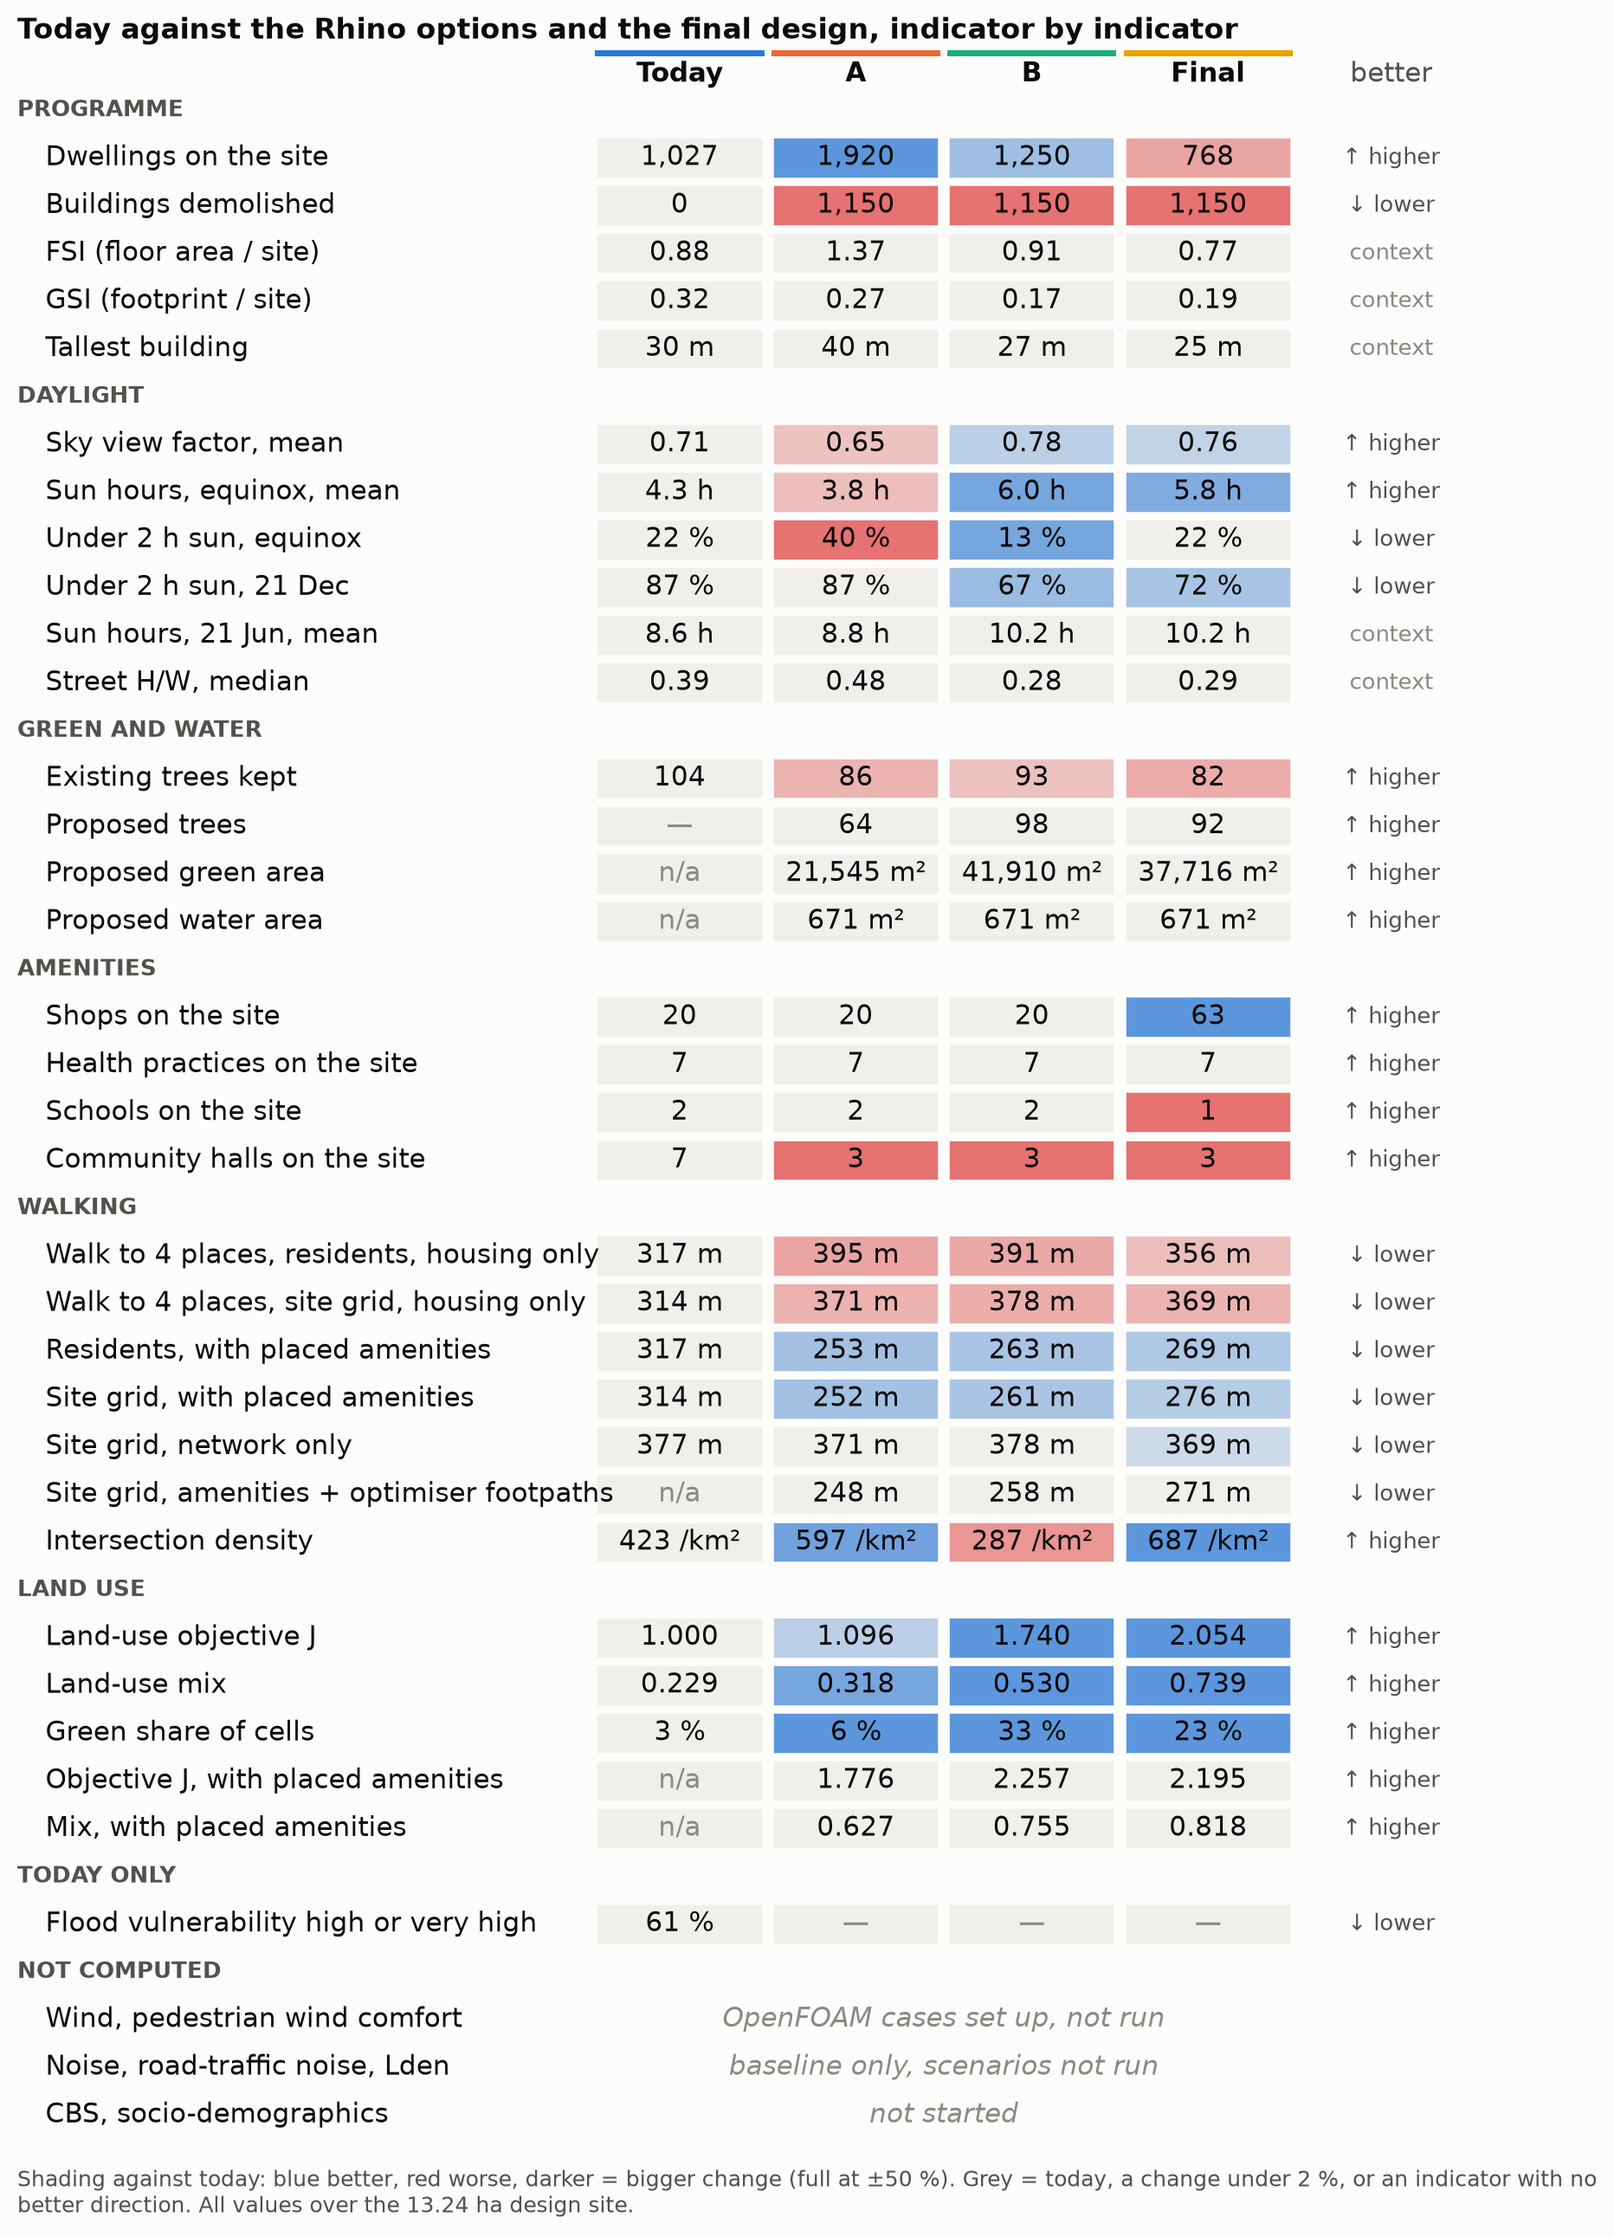
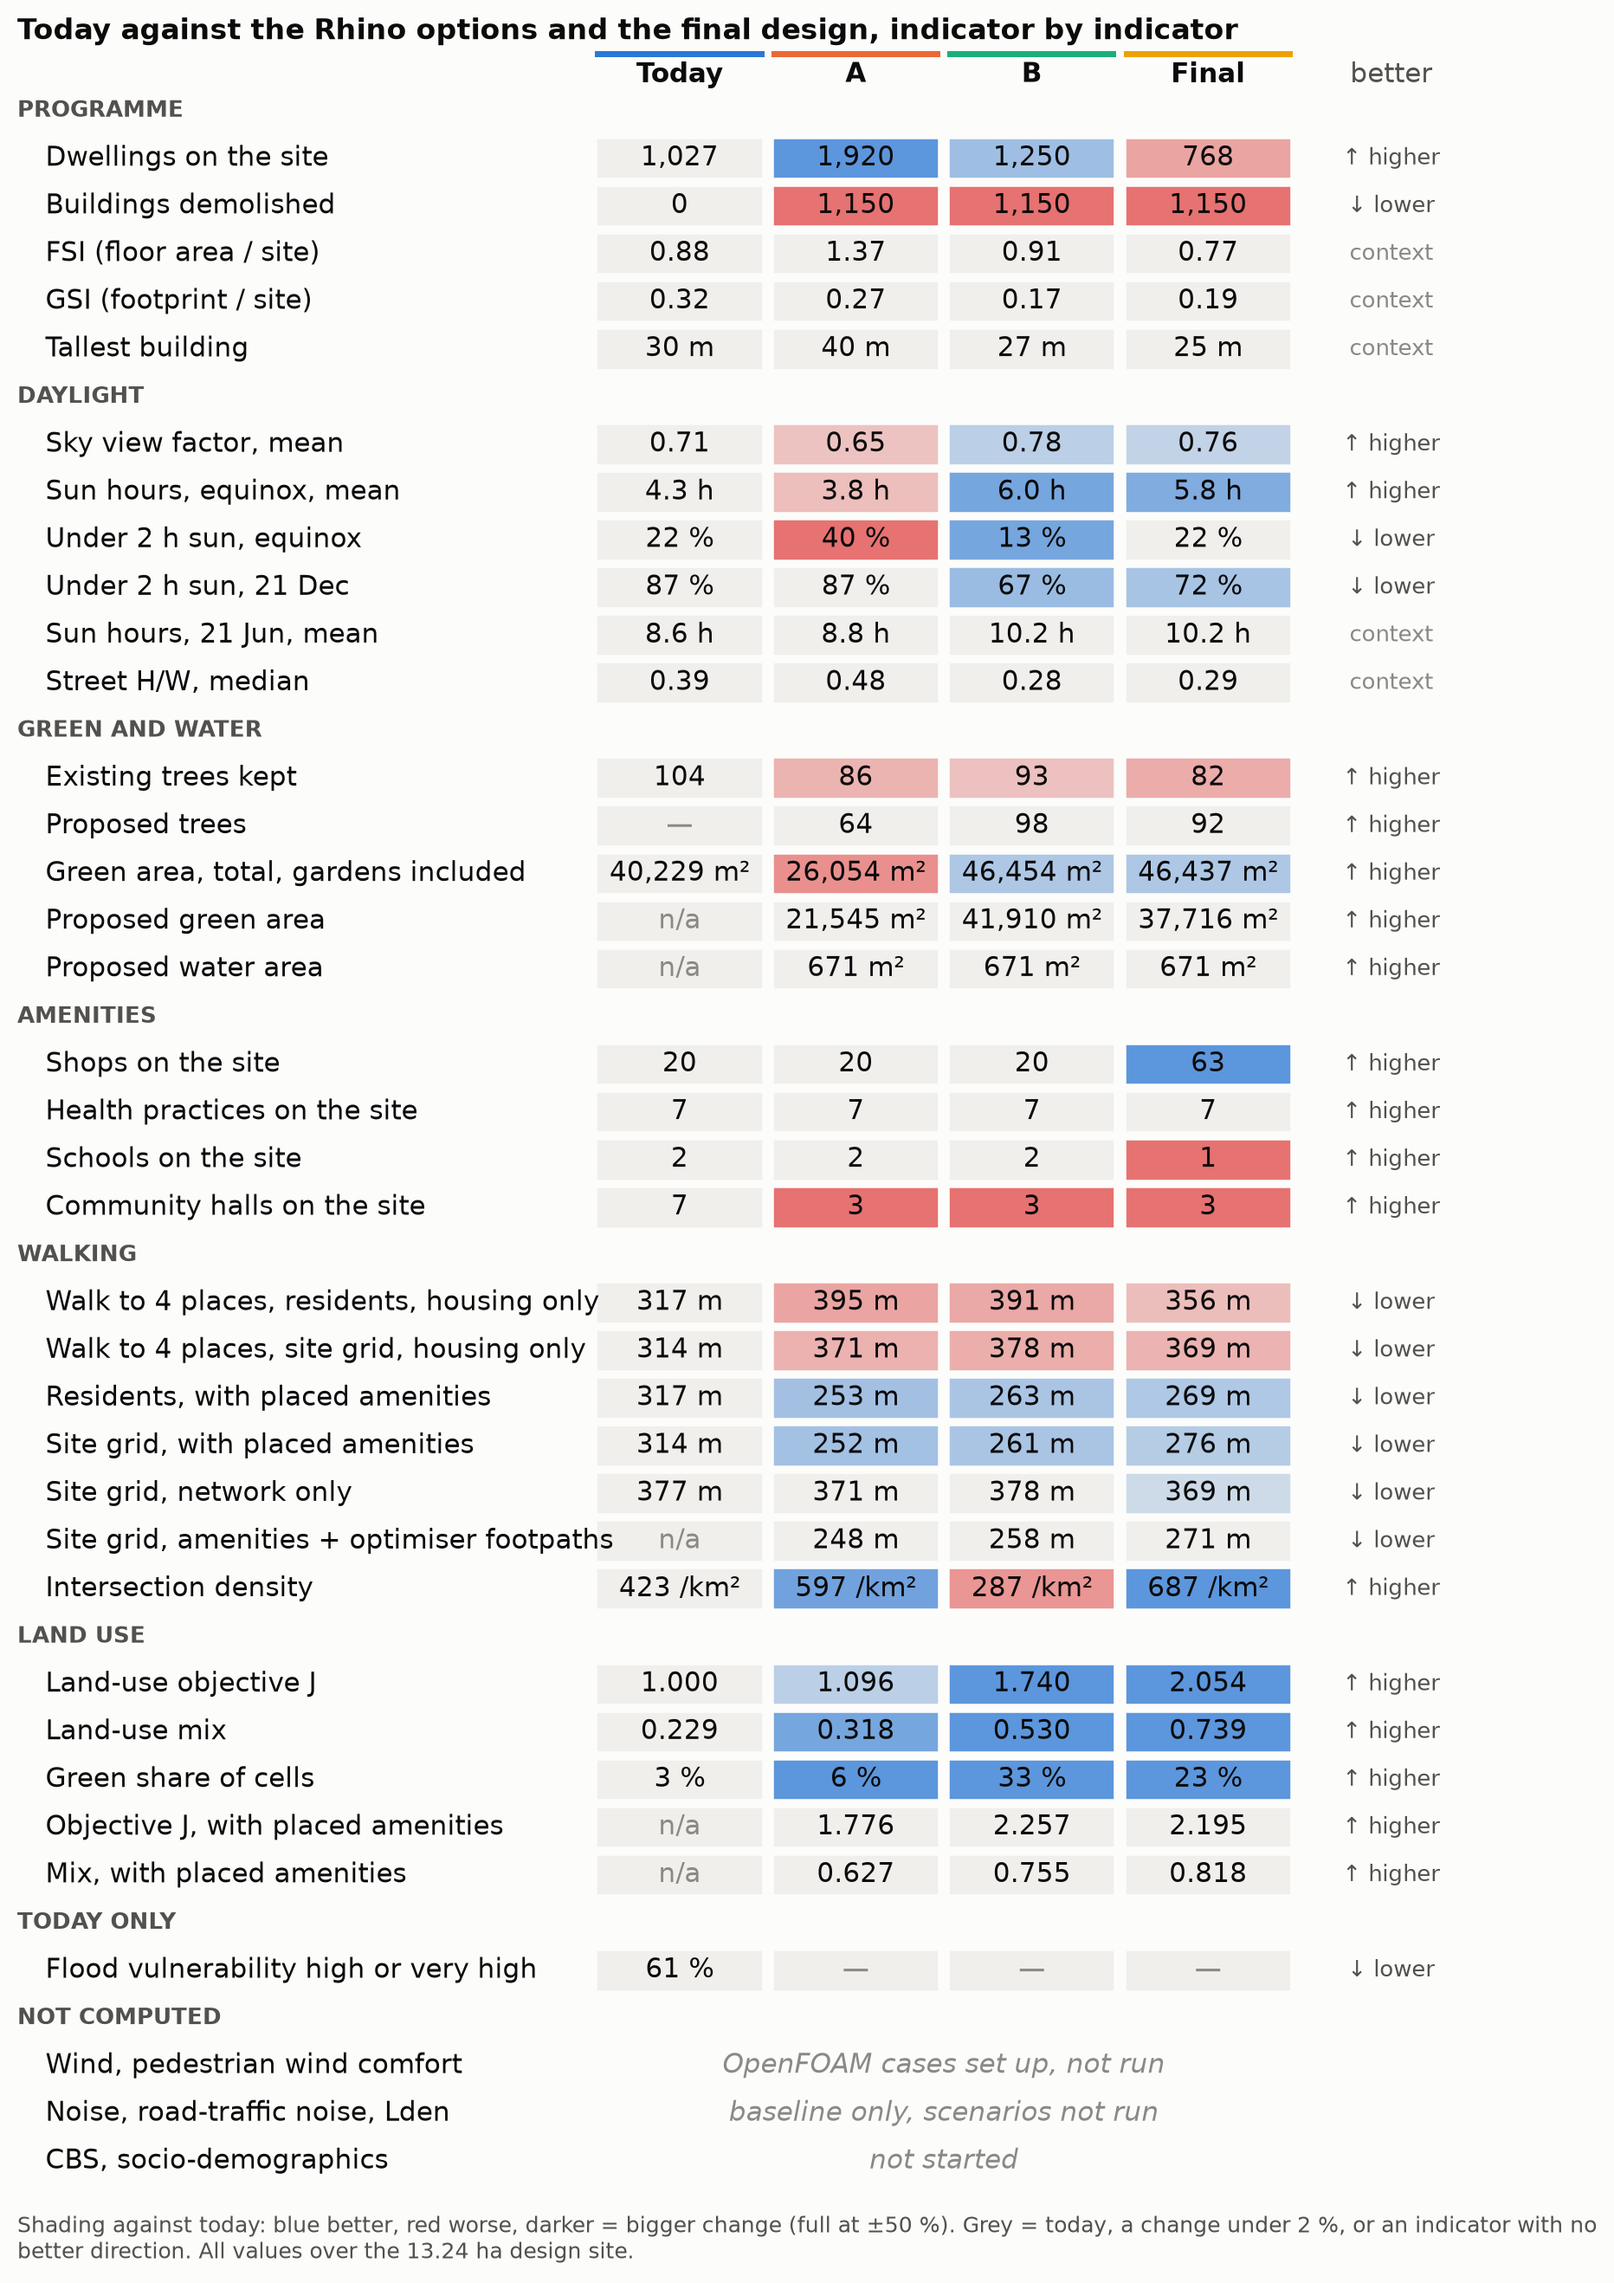
Green area per scenario in the comparison: today from the BGT (planted surfaces and gardens), designs from kept, proposed and walkway green

diff --git a/app/modules/comparison.js b/app/modules/comparison.js
@@ -22,6 +22,7 @@ const ROWS = [  //key, label, digits, as a percentage
   ["sun_under2h_1221", "Under 2 h sun, 21 Dec", 0, true],
   ["hw_median", "Street H/W, median", 2, false],
   ["trees_existing", "Existing trees kept", 0, false],  //today's trees still standing on the site
+  ["green_total_m2", "Green area, gardens incl. (m²)", 0, false],  //BGT today, kept + proposed green (+ walkway) in a design
   ["trees_proposed", "Proposed trees", 0, false],  //new planting from the Rhino model
   ["n_shop", "Shops on the site", 0, false],  //today from BAG; options placed (p-median) + kept
   ["n_education", "Schools on the site", 0, false],  //the kept school stays fixed

diff --git a/analysis/comparison/compare_scenarios.py b/analysis/comparison/compare_scenarios.py
@@ -154,12 +154,48 @@ def green(sc):
     area = lambda kind: round(sum(rd(shape(p["geometry"])).intersection(site).area
                                   for p in plant if p["properties"]["kind"] == kind))
     new_trees = sum(1 for p in plant if p["properties"]["kind"] == "tree")
-    out = {"trees_existing": kept, "trees_total": kept + new_trees}
+    out = {"trees_existing": kept, "trees_total": kept + new_trees, "green_total_m2": green_total(sc)}
     if sc != "baseline":  #proposed planting only exists in the designs, today's gardens are not in this count
         out.update({"trees_proposed": new_trees,  #n/a today, like the green and water areas
                     "shrubs_proposed": sum(1 for p in plant if p["properties"]["kind"] == "shrub"),
                     "green_area_m2": area("green"), "water_area_m2": area("water")})
     return out
+
+
+def green_total(sc):
+    #all green on the site, public and gardens in one number (Atanas, 2026-10-28), overlaps counted once:
+    #today the BGT's planted surfaces plus its erf (gardens, fetch_bgt_green.py); a design keeps today's green
+    #in the block it keeps and the public verges in the edge-street band, less what it builds or paves there,
+    #and adds its own green patches (the final design's house gardens among them) and its walkway
+    import geopandas as gpd
+    from shapely.geometry import shape
+    from shapely.ops import transform, unary_union
+    from scenario_world import EDGE_BAND_M, cleared_area
+    path = RAW / "bgt_green_site.geojson"
+    if not path.exists():
+        print("  ! data/raw/bgt_green_site.geojson missing: run analysis/comparison/fetch_bgt_green.py")
+        return None
+    site = design_site_polygon()
+    bgt = gpd.read_file(path)
+    if sc == "baseline":
+        return round(unary_union(bgt.geometry.values).intersection(site).area)
+    rd = lambda g: transform(lambda x, y, z=None: to_rd(x, y), g)  #lon/lat -> RD
+    keep = site.difference(cleared_area(sc))  #the block the design leaves standing
+    band = site.difference(site.buffer(-EDGE_BAND_M)).intersection(cleared_area(sc))  #edge streets and their verges
+    kept = unary_union([unary_union(bgt.geometry.values).intersection(keep),
+                        unary_union(bgt[bgt["kind"] == "green"].geometry.values).intersection(band)])  #no demolished house's garden
+    built = [rd(shape(f["geometry"])) for f in (J("design_massing.geojson") or {}).get("features", [])
+             if f["properties"]["scenario"] == sc]
+    paved = [rd(shape(f["geometry"])) for f in (J("design_streets.geojson") or {}).get("features", [])
+             if f["properties"]["scenario"] == sc and f["geometry"]["type"] in ("Polygon", "MultiPolygon")
+             and f["properties"]["kind"] != "walkway"]
+    plant = [p for p in (J("design_planting.geojson") or {}).get("features", []) if p["properties"]["scenario"] == sc]
+    water = [rd(shape(p["geometry"])) for p in plant if p["properties"]["kind"] == "water"]
+    kept = kept.difference(unary_union([g.buffer(0) for g in built + paved + water]))  #what the design puts on it
+    new = [rd(shape(p["geometry"])) for p in plant if p["properties"]["kind"] == "green"]
+    walk = [rd(shape(f["geometry"])) for f in (J("design_streets.geojson") or {}).get("features", [])
+            if f["properties"]["scenario"] == sc and f["properties"]["kind"] == "walkway"]  #the final design's path, counted green
+    return round(unary_union([kept] + [g.buffer(0) for g in new + walk]).intersection(site).area)
 
 
 def mobility(sc):
@@ -253,6 +289,7 @@ INDICATORS = [
     ("hw_median", "Daylight", "Street H/W, median", "", None, 2, "canyon_hw_*.json"),
     ("trees_existing", "Green and water", "Existing trees kept", "", "higher", 0, "trees*.geojson"),  #today's trees still standing
     ("trees_proposed", "Green and water", "Proposed trees", "", "higher", 0, "design_planting.geojson"),  #new planting, not seen by SVF or sun
+    ("green_total_m2", "Green and water", "Green area, total, gardens included", " m²", "higher", 0, "BGT + design_planting.geojson"),
     ("green_area_m2", "Green and water", "Proposed green area", " m²", "higher", 0, "design_planting.geojson"),
     ("water_area_m2", "Green and water", "Proposed water area", " m²", "higher", 0, "design_planting.geojson"),
     ("n_shop", "Amenities", "Shops on the site", "", "higher", 0, "amenity_placement.json"),

diff --git a/analysis/comparison/fetch_bgt_green.py b/analysis/comparison/fetch_bgt_green.py
@@ -1,0 +1,97 @@
+#!/usr/bin/env python3
+"""
+fetch_bgt_green.py — today's green on the design site, from the BGT.
+
+Component 4.9. Built 2026-10-28 for the green-area row of the scenario
+comparison (compare_scenarios.py).
+
+USAGE
+-----
+    python analysis/comparison/fetch_bgt_green.py
+
+WHAT IT FETCHES
+---------------
+The BGT (Basisregistratie Grootschalige Topografie) through PDOK's OGC API,
+over the design site's box plus 20 m:
+  begroeidterreindeel    every planted surface: public green, shrubs, grass
+  onbegroeidterreindeel  only class "erf": the private plot round a house, how
+                         the BGT records gardens
+Only current versions are kept: the API also returns retired versions (a
+feature with an eind_registratie), 471 of 782 planted parts on the first page
+on 2026-10-28.
+
+OUTPUT
+------
+    data/raw/bgt_green_site.geojson   polygons, EPSG:28992, with class and kind
+                                      ("green" or "garden")
+
+WHAT IT CANNOT TELL YOU
+-----------------------
+* An erf is the whole plot, paving and sheds included, so gardens count in
+  full. The final design's gardens are drawn the same way (a 5 x 18 m plot per
+  house), so the two are counted alike, but both overstate the planted area.
+"""
+from __future__ import annotations
+
+import json
+import pathlib
+import sys
+import urllib.request
+
+sys.path.insert(0, str(pathlib.Path(__file__).resolve().parents[1]))
+from common.project import RAW, SERVICES, design_site_polygon, to_wgs  # noqa: E402
+
+PARAMS = {
+    "pad_m": 20.0,  #box round the site, so a polygon crossing its outline comes whole
+    "page": 1000,  #features per request, the API's maximum
+}
+CASES = [  #one dict per BGT collection: which classes count, and as what
+    {"collection": "begroeidterreindeel", "classes": None, "kind": "green"},  #every planted class
+    {"collection": "onbegroeidterreindeel", "classes": ["erf"], "kind": "garden"},  #private plots only, not paving or sand
+]
+
+
+def fetch(c, p):
+    #every current feature of one collection in the site box -> list of GeoJSON features (lon/lat)
+    x0, y0, x1, y1 = design_site_polygon().buffer(p["pad_m"]).bounds
+    (w, s), (e, n) = to_wgs(x0, y0), to_wgs(x1, y1)
+    url = (f"{SERVICES['bgt_ogc']}/collections/{c['collection']}/items?f=json&limit={p['page']}"
+           f"&bbox={w},{s},{e},{n}")
+    out, pages = [], 0
+    while url:  #follow the next links: the erf collection alone runs past one page
+        d = json.load(urllib.request.urlopen(url, timeout=120))
+        out += d["features"]
+        pages += 1
+        url = next((l["href"] for l in d.get("links", []) if l["rel"] == "next"), None)
+    current = [f for f in out if not f["properties"].get("eind_registratie")]  #retired versions out
+    keep = [f for f in current if c["classes"] is None or f["properties"].get("fysiek_voorkomen") in c["classes"]]
+    print(f"  {c['collection']}: {len(out)} features in {pages} page(s), {len(current)} current, {len(keep)} kept")
+    return keep
+
+
+def main() -> int:
+    import geopandas as gpd
+    from collections import Counter
+    p = PARAMS
+    print("BGT green over the design site")
+    rows = []
+    for c in CASES:  #one collection per case
+        for f in fetch(c, p):
+            rows.append({"kind": c["kind"], "class": f["properties"].get("fysiek_voorkomen"),
+                         "lokaal_id": f["properties"].get("lokaal_id"), "geometry": f["geometry"]})
+    g = gpd.GeoDataFrame.from_features([{"type": "Feature", "geometry": r.pop("geometry"), "properties": r}
+                                        for r in rows], crs=4326).to_crs(28992)
+    g = g[g.geometry.geom_type.isin(["Polygon", "MultiPolygon"])]  #surfaces only
+    site = design_site_polygon()
+    on = g[g.intersects(site)]
+    print("  on the site: " + ", ".join(f"{k} {n}" for k, n in Counter(on["class"]).most_common()))
+    print(f"  area on the site: green {on[on.kind == 'green'].intersection(site).area.sum():,.0f} m2, "
+          f"gardens {on[on.kind == 'garden'].intersection(site).area.sum():,.0f} m2")
+    path = RAW / "bgt_green_site.geojson"
+    g.to_file(path, driver="GeoJSON")
+    print(f"  wrote {path.relative_to(RAW.parent.parent)} ({len(g)} polygons)")
+    return 0
+
+
+if __name__ == "__main__":
+    raise SystemExit(main())

diff --git a/analysis/common/project.py b/analysis/common/project.py
@@ -323,6 +323,7 @@ SERVICES = {
     "knmi_open_data": "https://api.dataplatform.knmi.nl/open-data/v1",
     "knmi_daily":     "https://www.daggegevens.knmi.nl/klimatologie/daggegevens",
     "pdok_locatie":   "https://api.pdok.nl/bzk/locatieserver/search/v3_1",
+    "bgt_ogc":        "https://api.pdok.nl/lv/bgt/ogc/v1",  # BGT land cover; verified reachable 2026-10-28
 }
 
 # The public anonymous KNMI key (valid to 2027-08-01 per KNMI's docs).

diff --git a/analysis/comparison/README.md b/analysis/comparison/README.md
@@ -71,6 +71,7 @@ a row that says so. Flood vulnerability is today only.
 | street H/W, median | 0.39 | 0.48 | 0.28 | 0.29 | context |
 | existing trees kept on the site | 104 | 86 | 93 | 82 | higher |
 | proposed trees | n/a | 64 | 98 | 92 | higher |
+| green area, total, gardens included | 40,229 m² | 26,054 m² | 46,454 m² | 46,437 m² | higher |
 | proposed green area | n/a | 21,545 m² | 41,910 m² | 37,716 m² | higher |
 | proposed water area | n/a | 671 m² | 671 m² | 671 m² | higher |
 | shops on the site | 20 | 20 | 20 | 63 | higher |
@@ -90,6 +91,16 @@ a row that says so. Flood vulnerability is today only.
 | land-use objective J, with the placed amenities | n/a | 1.776 | 2.257 | 2.195 | higher |
 | land-use mix, with the placed amenities | n/a | 0.627 | 0.755 | 0.818 | higher |
 | flood vulnerability high or very high | 61 % | not run | not run | not run | lower |
+
+**Green area counts gardens and the final design's walkway.** Today's green is
+the BGT's planted surfaces plus its `erf`, the private plots round the houses
+(`fetch_bgt_green.py`, 7,210 m² public and 33,019 m² gardens on the site). A
+design keeps today's green in the school block it keeps and the public verges in
+the 15 m edge-street band, less what it builds or paves there, and adds its own
+green, house gardens included, and in the final design the walkway, every
+overlap counted once. B and the final design end up 15 % above today, A 35 %
+below. An erf is the whole plot, paving and sheds included, and the final
+design's gardens are drawn as whole plots too: both overstate what is planted.
 
 Sources: dwellings from `road_metrics.json` (BAG today, the road network's
 estimate in the scenarios), demolition and heights from `design_massing.geojson`,
